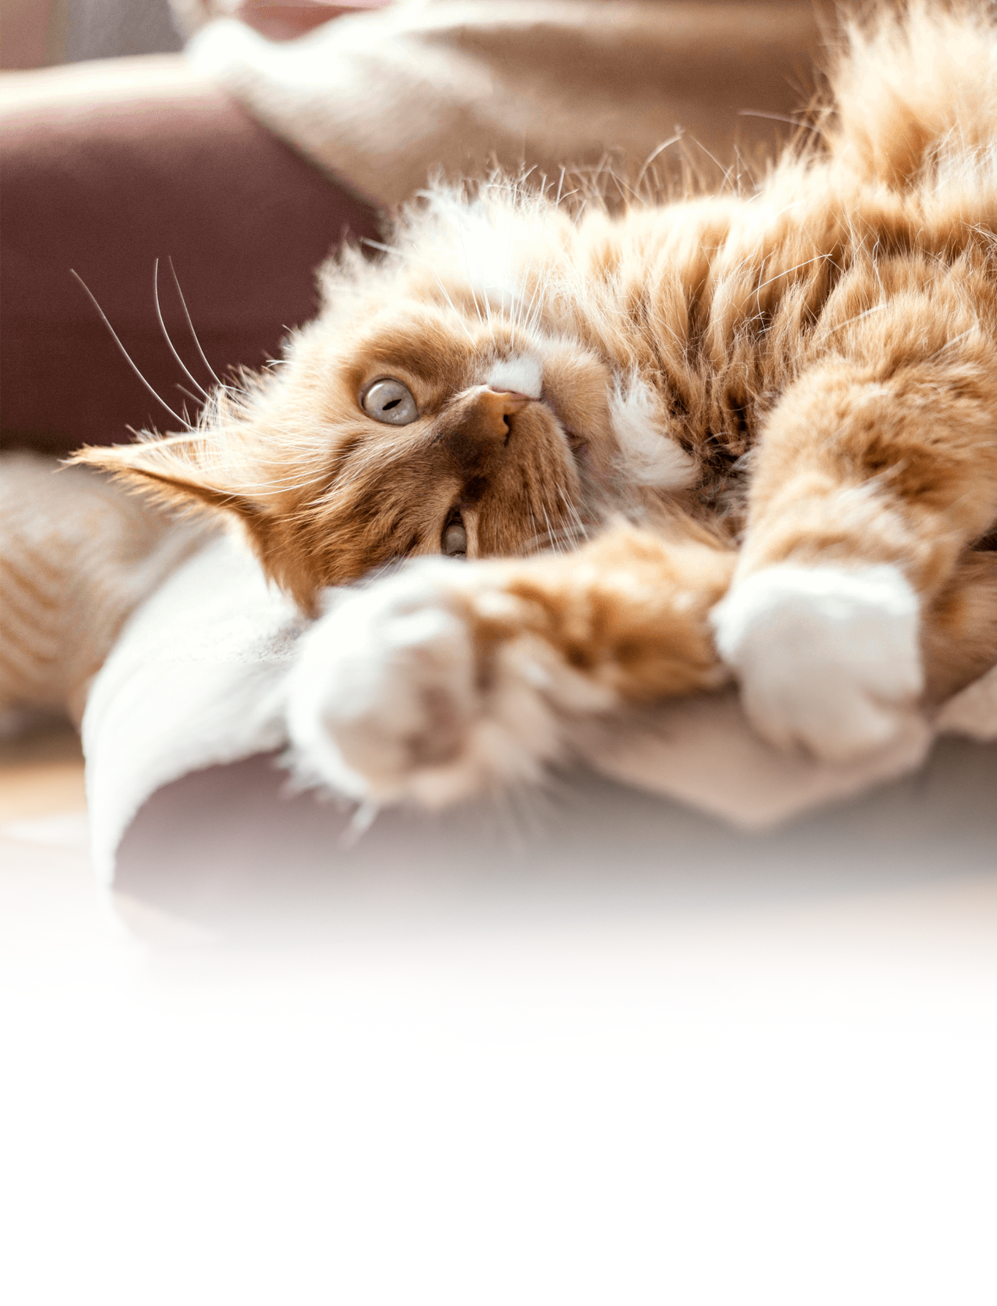
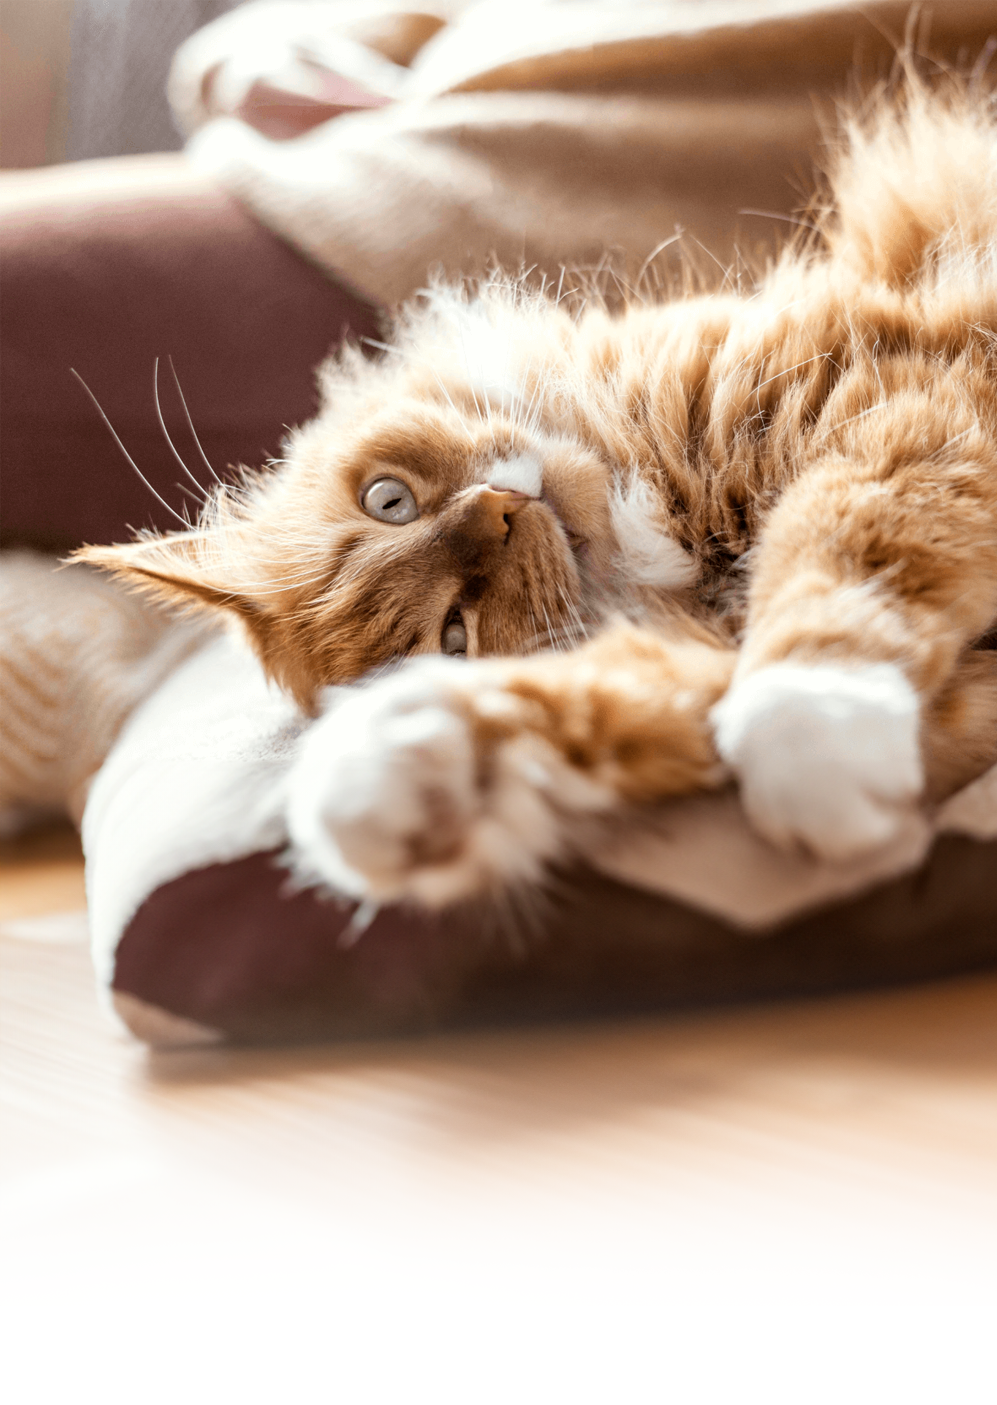
Banner修正

diff --git a/pages/index.html b/pages/index.html
@@ -13,7 +13,9 @@
       <div class="row g-0">
         <!-- 主圖區塊 -->
         <div class="col-12 position-relative">
-          <div class="image-container position-relative">
+          <div
+            class="image-container position-relative d-flex justify-content-center align-items-start"
+          >
             <img
               src="../assets/images/ImgBanner.png"
               class="img-fluid d-lg-block d-sm-none d-none"
